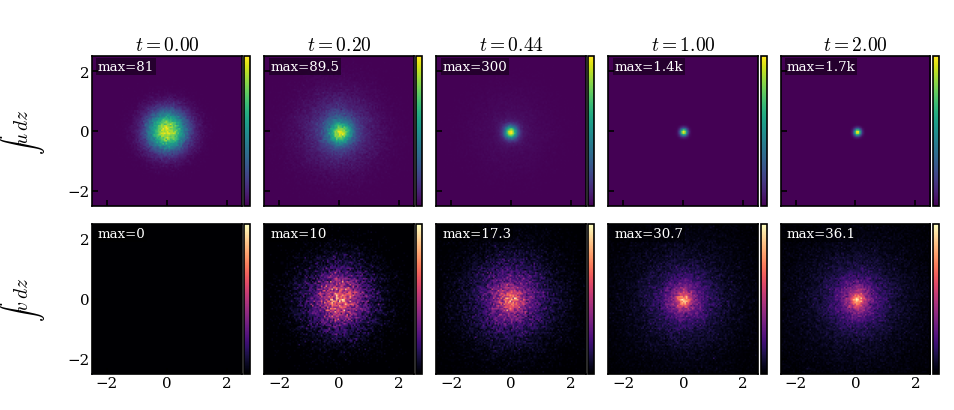
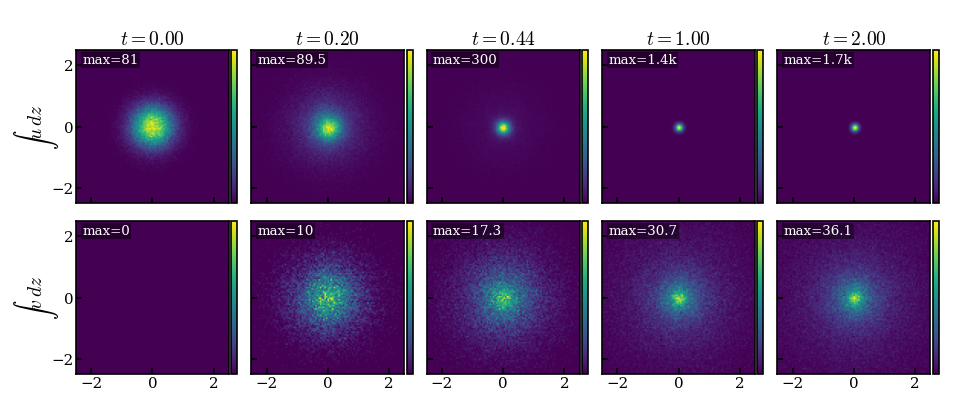
Use common colormap for 3D state panels

diff --git a/experiments/keller_segel/fully_parabolic_3d/plot_radial_state.py b/experiments/keller_segel/fully_parabolic_3d/plot_radial_state.py
@@ -84,7 +84,7 @@ def render(S, out_root, prefix, disp=3.0):
     ext = [-S["rng"], S["rng"], -S["rng"], S["rng"]]
     fig_w = TEXTWIDTH_IN
     fig_h = 0.43 * TEXTWIDTH_IN
-    left = 0.46
+    left = 0.38
     right = 0.08
     panel_gap = 0.070
     cbar_pad = 0.012
@@ -97,9 +97,9 @@ def render(S, out_root, prefix, disp=3.0):
     for variant in ("physical", "normalized"):
         fig = plt.figure(figsize=(fig_w, fig_h))
         for ri, (data, lab, cmap) in enumerate([(U, r"$\int u\,dz$", "viridis"),
-                                                (Vv, r"$\int v\,dz$", "magma")]):
+                                                (Vv, r"$\int v\,dz$", "viridis")]):
             y = top_y if ri == 0 else bottom
-            fig.text(0.024, (y + 0.5 * panel) / fig_h,
+            fig.text(0.038, (y + 0.5 * panel) / fig_h,
                      lab + ("\n(norm.)" if variant == "normalized" else ""),
                      rotation=90, va="center", ha="center", fontsize=7)
             for ci in range(nt):